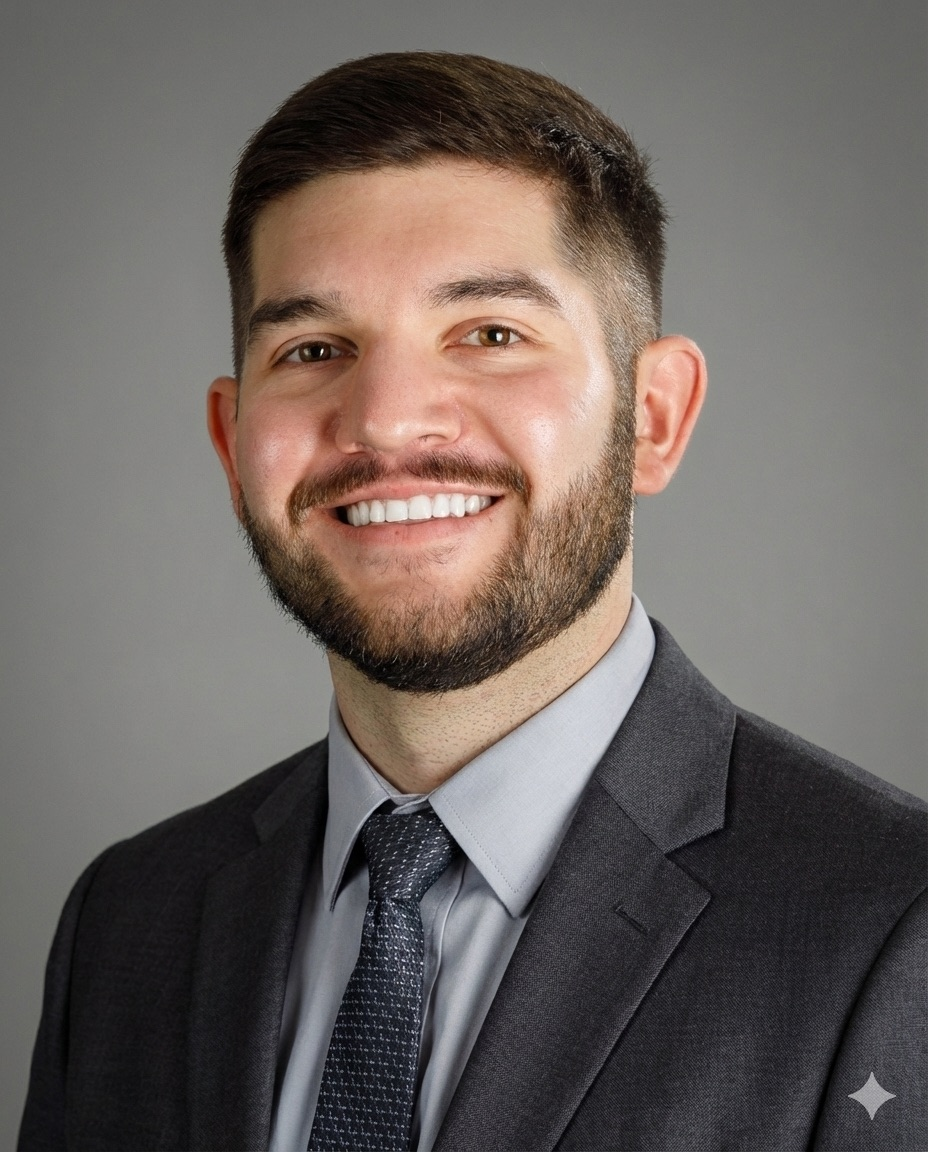
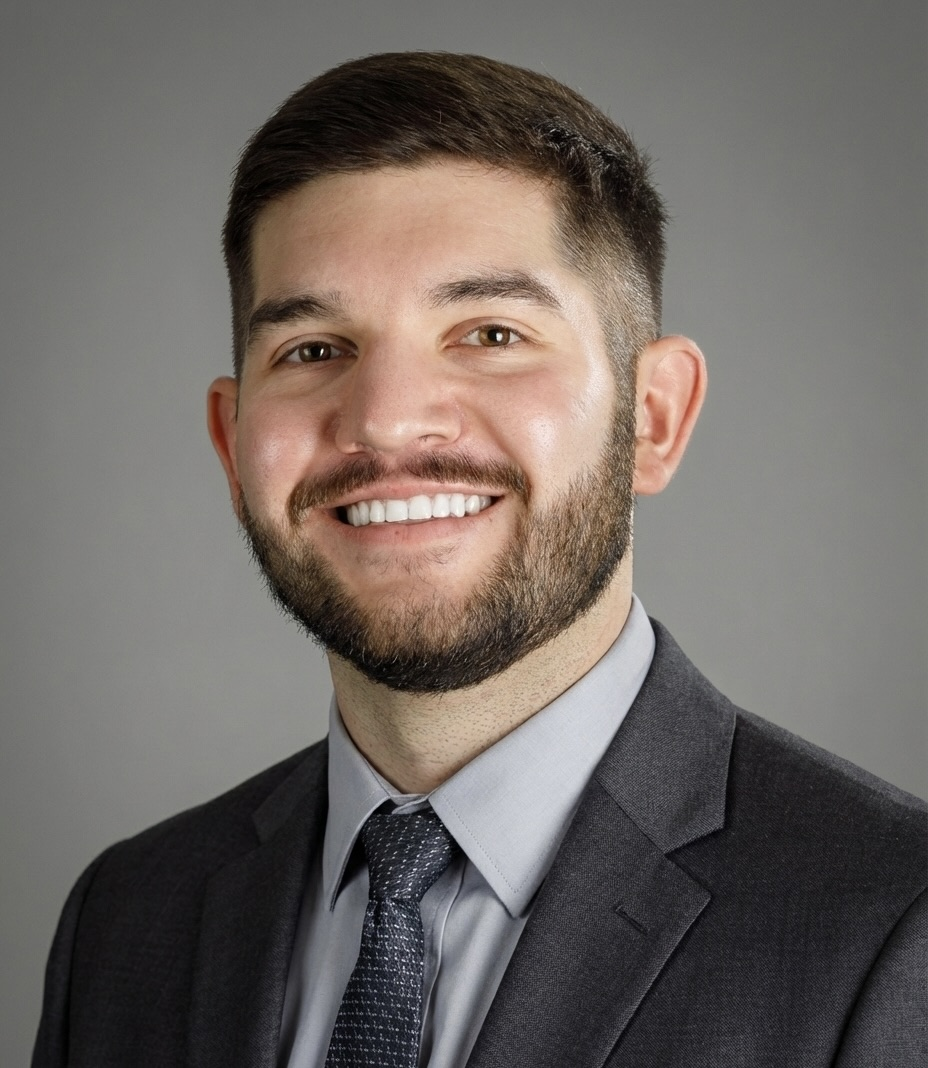
update website

Changed region(s): [[0.0, 0.0309, 1.0, 1.0], [0.3125, 0.0618, 0.375, 0.0927]]

diff --git a/index.html b/index.html
@@ -187,7 +187,7 @@
 
     .hero-grid {
       display: grid;
-      grid-template-columns: 1fr 280px;
+      grid-template-columns: 1fr 340px;
       gap: 48px;
       align-items: center;
       width: 100%;
@@ -197,7 +197,7 @@
 
     .hero-photo {
       width: 100%;
-      aspect-ratio: 1 / 1;
+      aspect-ratio: 4 / 5;
       border-radius: 16px;
       overflow: hidden;
       box-shadow: var(--shadow-lg);
@@ -558,7 +558,7 @@
       }
 
       .hero-photo {
-        max-width: 220px;
+        max-width: 260px;
         margin: 0 auto;
         order: -1;
       }
@@ -629,39 +629,31 @@
         </div>
         <h1>Chad <span class="accent">Weatherly</span></h1>
         <p class="hero-subtitle">
-          Computer Science PhD candidate at the University of Houston, working at the intersection
-          of deep learning research and real-world industrial automation. Background in mathematics
-          and data science; primary languages Python and Rust.
+          I'm a Computer Science PhD candidate at the University of Houston, working at the
+          intersection of deep learning research and real-world industrial automation. My
+          background is in mathematics and data science, and I work primarily in Python and Rust.
         </p>
         <ul class="hero-bullets">
           <li>
-            Research in the
+            I research in the
             <a href="https://slin70.github.io/terms/" target="_blank" rel="noopener"><strong>Continual Edge AI Lab</strong></a>
-            under Dr. Sen Lin — spanning continual learning, anomaly detection,
+            under Dr. Sen Lin, with interests across continual learning, anomaly detection,
             self-supervised learning, vision transformers, and foundation models.
           </li>
           <li>
-            Focused on deploying modern neural architectures on resource-constrained edge
-            hardware (NVIDIA Jetson, Raspberry Pi) for realistic manufacturing environments.
+            I'm especially interested in how modern neural architectures can run on
+            resource-constrained edge hardware inside realistic manufacturing environments.
           </li>
           <li>
-            Independent automation consultant designing end-to-end computer vision, RFID
-            tracking, and quality control systems for industrial clients — from model training
-            through embedded deployment.
-          </li>
-          <li>
-            Previously contributed to clinical AI research on distinguishing pediatric
-            inflammatory syndromes from typhus using multimodal imaging and EHR data.
+            Outside the lab, I work as an independent automation consultant, building
+            computer vision and quality control systems for industrial clients — from
+            training models to deploying them on the factory floor.
           </li>
         </ul>
         <div class="hero-meta" id="about">
           <div class="hero-meta-item">
             <svg viewBox="0 0 24 24"><path d="M12 2L2 7l10 5 10-5-10-5zM2 17l10 5 10-5M2 12l10 5 10-5"/></svg>
             University of Houston
-          </div>
-          <div class="hero-meta-item">
-            <svg viewBox="0 0 24 24"><circle cx="12" cy="12" r="10"/><path d="M12 6v6l4 2"/></svg>
-            Continual Edge AI Lab
           </div>
           <div class="hero-meta-item">
             <svg viewBox="0 0 24 24"><polyline points="16 18 22 12 16 6"/><polyline points="8 6 2 12 8 18"/></svg>
@@ -752,63 +744,38 @@
     <div class="fade-in">
       <div class="section-label">Portfolio</div>
       <h2 class="section-title">Consulting &amp; Industry Work</h2>
-      <div class="card-grid card-grid-3">
+      <div class="card-grid card-grid-2">
 
         <div class="card">
-          <div class="card-tag">Industrial Inspection</div>
+          <div class="card-tag">Industrial X-Ray Inspection</div>
           <h3>X9 Inc</h3>
           <p>
-            End-to-end industrial X-ray inspection system with development fees, perpetual licensing,
-            and annual support model. Built a central Flask server with WhatsApp Cloud API integration,
-            RFID operator tracking, and FulcrumPro ERP sync.
-          </p>
-          <p style="margin-top:8px;font-size:0.85rem;color:var(--text-muted);">
-            Hardware: Intel Xeon server, Raspberry Pi stations, JMX-P6030 X-Ray machine.
+            Sole software engineer. Automating X-ray inspection program,
+            building the pipeline end-to-end — from image acquisition off the X-ray machine,
+            through AI-based quality inspection, to results reporting and remote review.
+            Built custom RFID-reading system that coordinates with local server and ERP for
+            seamless job tracking and employee management.
           </p>
           <div class="card-footer">
             <span class="tech-tag">Python</span>
             <span class="tech-tag">Flask</span>
             <span class="tech-tag">PyTorch</span>
             <span class="tech-tag">OpenCV</span>
-            <span class="tech-tag">C# .NET</span>
           </div>
         </div>
 
         <div class="card">
-          <div class="card-tag">Manufacturing QC</div>
+          <div class="card-tag">Industrial X-Ray Inspection</div>
           <h3>Wellmatics Engineering</h3>
           <p>
-            Deployed object detection models for automated X-ray inspection across multiple
-            product types, and modified PLC programs for X-ray machine automation.
-            Reduced product failures by 95% and manufacturing time by 10%.
-          </p>
-          <p style="margin-top:8px;font-size:0.85rem;color:var(--text-muted);">
-            Paired an 8-camera QR detection system with a YOLO-based X-ray QC pipeline,
-            backed by a Python/Rust stack and ZeroMQ communication.
-          </p>
-          <div class="card-footer">
-            <span class="tech-tag">Python</span>
-            <span class="tech-tag">Rust</span>
-            <span class="tech-tag">PyTorch</span>
-            <span class="tech-tag">YOLO</span>
-            <span class="tech-tag">DepthAI</span>
-            <span class="tech-tag">ZeroMQ</span>
-          </div>
-        </div>
-
-        <div class="card">
-          <div class="card-tag">Edge AI Product</div>
-          <h3>OAKCameraQC</h3>
-          <p>
-            Deployable edge AI quality-control camera product with Jetson Orin Nano and Raspberry Pi 5 variants.
-            SSD neural networks for production deployment. Currently evaluating PatchCore vs. EfficientAD
-            approaches for anomaly detection.
+            Built a deep-learning pipeline for automated X-ray inspection of manufactured
+            products, covering multiple product lines. The system cut product failures by
+            roughly 95% and reduced manufacturing time by about 10%.
           </p>
           <div class="card-footer">
             <span class="tech-tag">Python</span>
             <span class="tech-tag">PyTorch</span>
-            <span class="tech-tag">Jetson</span>
-            <span class="tech-tag">Raspberry Pi</span>
+            <span class="tech-tag">OpenCV</span>
           </div>
         </div>
 
@@ -836,54 +803,36 @@
         </div>
 
         <div class="skill-group">
-          <h3>ML / AI</h3>
+          <h3>Frameworks &amp; Libraries</h3>
           <div class="skill-list">
             <span class="skill-item">PyTorch</span>
-            <span class="skill-item">YOLO</span>
             <span class="skill-item">OpenCV</span>
-            <span class="skill-item">timm</span>
-            <span class="skill-item">DINOv2</span>
-            <span class="skill-item">PatchCore</span>
-            <span class="skill-item">I-JEPA</span>
-          </div>
-        </div>
-
-        <div class="skill-group">
-          <h3>Web / Backend</h3>
-          <div class="skill-list">
+            <span class="skill-item">scikit-learn</span>
+            <span class="skill-item">pandas</span>
+            <span class="skill-item">NumPy</span>
             <span class="skill-item">Flask</span>
-            <span class="skill-item">REST APIs</span>
-            <span class="skill-item">ZeroMQ</span>
           </div>
         </div>
 
         <div class="skill-group">
-          <h3>Hardware / Edge</h3>
+          <h3>Research Interests</h3>
+          <div class="skill-list">
+            <span class="skill-item">Anomaly Detection</span>
+            <span class="skill-item">Continual Learning</span>
+            <span class="skill-item">Self-Supervised Learning</span>
+            <span class="skill-item">Vision Transformers</span>
+            <span class="skill-item">Foundation Models</span>
+            <span class="skill-item">Edge AI</span>
+          </div>
+        </div>
+
+        <div class="skill-group">
+          <h3>Hardware &amp; Deployment</h3>
           <div class="skill-list">
             <span class="skill-item">NVIDIA Jetson</span>
             <span class="skill-item">Raspberry Pi</span>
-            <span class="skill-item">Luxonis</span>
-            <span class="skill-item">Hailo NPUs</span>
-          </div>
-        </div>
-
-        <div class="skill-group">
-          <h3>Infrastructure</h3>
-          <div class="skill-list">
-            <span class="skill-item">Tailscale</span>
+            <span class="skill-item">Linux</span>
             <span class="skill-item">CUDA</span>
-            <span class="skill-item">ROCm</span>
-            <span class="skill-item">MPS</span>
-            <span class="skill-item">Git</span>
-          </div>
-        </div>
-
-        <div class="skill-group">
-          <h3>Tools</h3>
-          <div class="skill-list">
-            <span class="skill-item">uv</span>
-            <span class="skill-item">FulcrumPro API</span>
-            <span class="skill-item">WhatsApp Cloud API</span>
           </div>
         </div>
 

diff --git a/project_knowledge.md b/project_knowledge.md
@@ -15,8 +15,8 @@ Single-file architecture — everything lives in `index.html` (HTML + embedded C
 1. **Hero / About** — Dual tags (PhD Candidate · CS/AI  +  Automation & Software Engineer), name, bio in bulleted list, formal photo (chad.jpeg), lab affiliation (**Continual Edge AI Lab** under Dr. Sen Lin, linked to https://slin70.github.io/terms/)
 2. **Research / Active Projects** — Three general cards describing research themes (latent-space prediction for AD, continual AD under industrial drift, foundation models on the edge). Deliberately free of specific model names, architectures, or results.
 3. **Publications** — MET Project paper (Open Forum Infectious Diseases, 2022). ECCV 2026 submission is intentionally NOT listed while under review.
-4. **Projects / Portfolio** — Three consulting cards: X9 Inc, Wellmatics (with impact metrics), OAKCameraQC
-5. **Skills** — Six groups: Languages (Python, Rust, C/C++, C#, R, SQL), ML/AI, Web/Backend, Hardware/Edge, Infrastructure, Tools
+4. **Projects / Portfolio** — Two consulting cards (X9 Inc, Wellmatics). Both focused purely on X-ray inspection work. No hardware specifics, no fee/licensing language.
+5. **Skills** — Four groups: Languages, Frameworks & Libraries, Research Interests, Hardware & Deployment. Model architectures intentionally NOT listed as skills (YOLO, DINO, PatchCore, I-JEPA removed). Flask kept; REST APIs and ZeroMQ removed per user note that only Flask of those was well-known.
 6. **Contact** — Email, GitHub, LinkedIn links
 
 ### Corrected Lab Affiliation
@@ -57,4 +57,5 @@ Single-file architecture — everything lives in `index.html` (HTML + embedded C
 - Add Google Analytics or Plausible for visitor tracking (optional)
 
 ## Changelog
-- **2026-04-24** — Redesigned hero: added formal photo (`chad.jpeg`), dual role tags, bulleted bio. Corrected lab affiliation to CEAL / Dr. Sen Lin with link to https://slin70.github.io/terms/. Generalized Active Projects to three thematic cards. Added SQL to Languages. Added impact metrics to Wellmatics card. Nav logo updated to "chad weatherly." Note: ECCV 2026 submission intentionally NOT mentioned anywhere on the site while under review.
+- **2026-04-24** — Redesigned hero: added formal photo (`chad.jpeg`), dual role tags, bulleted bio. Corrected lab affiliation to CEAL / Dr. Sen Lin with link to https://slin70.github.io/terms/. Generalized Active Projects to three thematic cards. Added SQL to Languages. Nav logo updated to "chad weatherly." Note: ECCV 2026 submission intentionally NOT mentioned anywhere on the site while under review.
+- **2026-04-24 (round 2)** — Enlarged hero photo (340px wide, portrait 4:5 aspect). Rewrote hero bio in first person to feel less CV-like. Dropped the "Continual Edge AI Lab" meta-row chip (lab is already mentioned in bio). Consulting section pared down to two cards (X9 + Wellmatics), focused only on X-ray inspection work; removed hardware specifics, fee/licensing mentions, and the OAKCameraQC card. Skills: trimmed model architectures (YOLO/DINO/PatchCore/I-JEPA removed), consolidated web tools to just Flask, added a "Research Interests" group, collapsed Hardware+Infrastructure+Tools into a single "Hardware & Deployment" group.
